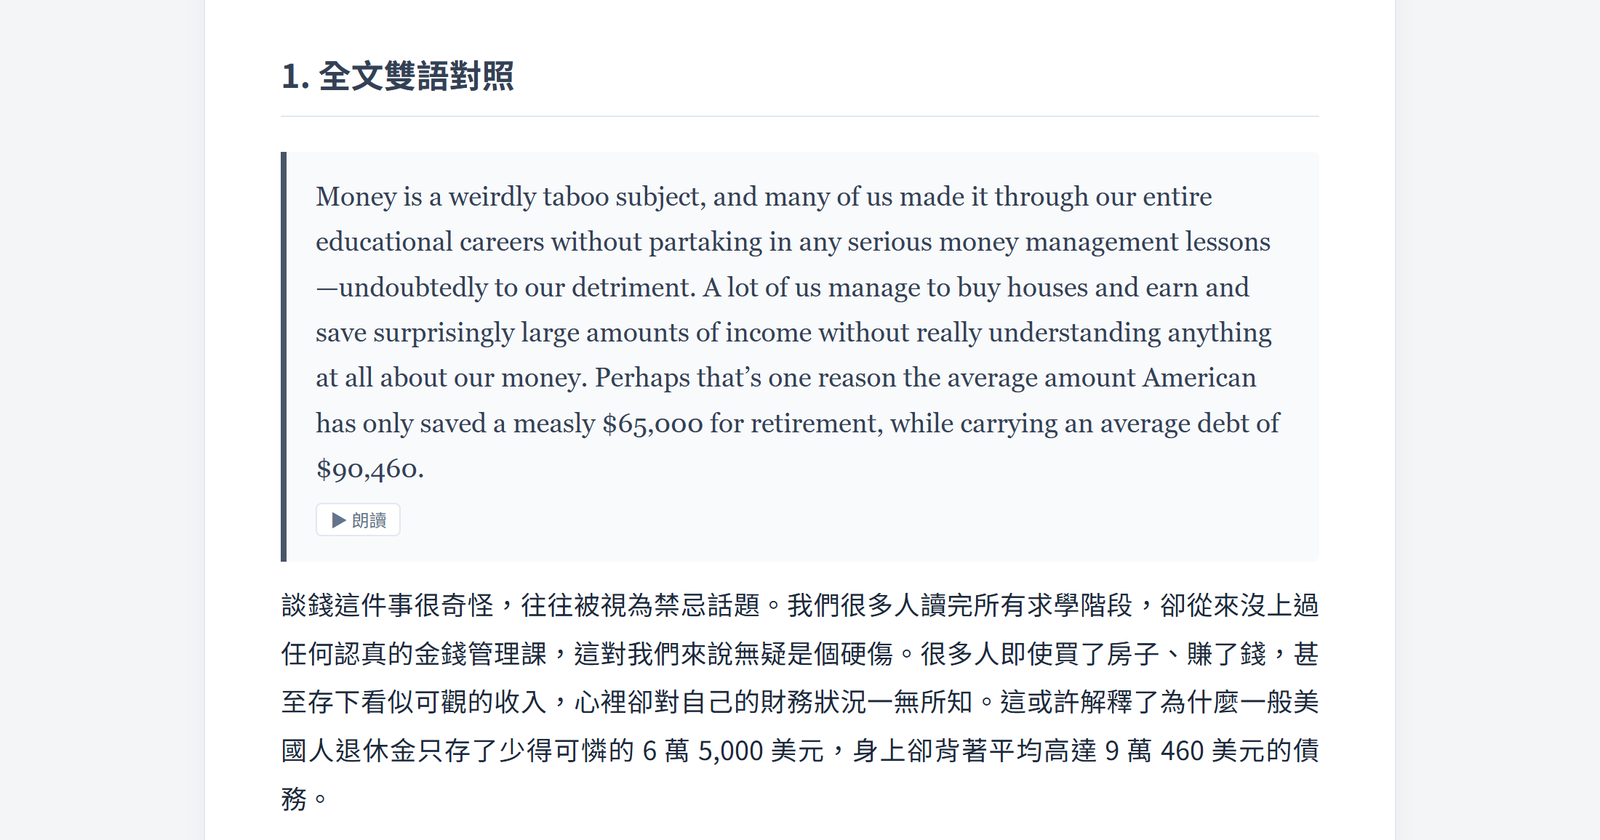
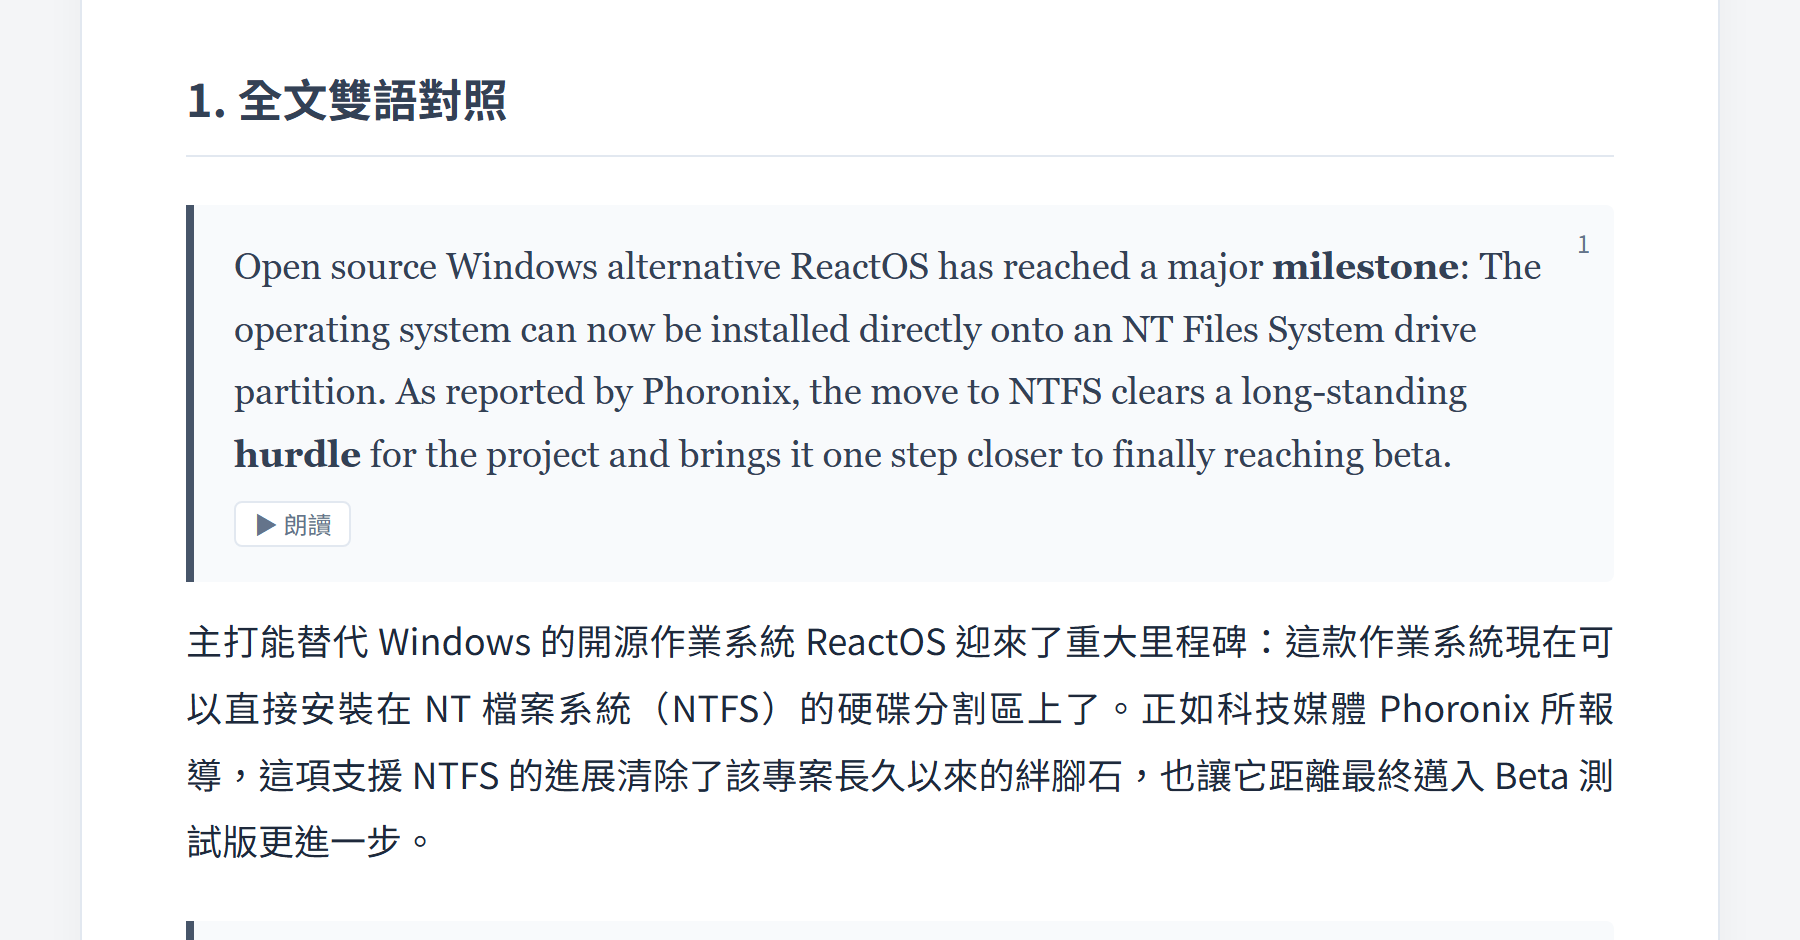
README：Shinkansen 致謝、截圖更新為 v2.12

Changed region(s): [[0.0938, 0.1857, 0.9062, 0.9595], [0.0938, 0.0619, 0.3438, 0.1548], [0.0938, 0.9905, 0.125, 1.0]]

diff --git a/README.md b/README.md
@@ -85,7 +85,7 @@
 - 不需要伺服器，不收集任何資料。文章只會送到 Google Gemini API。
 - 權限用途：右鍵選單（contextMenus）、讀取目前分頁的文章（activeTab、scripting）、儲存設定（storage）、另存講義（downloads）。
 - 正文擷取使用 [Mozilla Readability](https://github.com/mozilla/readability)（Apache License 2.0，授權條款見 `lib/Readability.LICENSE.md`）。
-- 〔是否寫：部分設計構想參考 Shinkansen〕
+- 部分設計構想參考 [Shinkansen](https://github.com/jimmysu0309/shinkansen)（Jimmy Su），例如用 Readability 擷取正文、翻譯規則放在系統指令。程式碼與提示文字皆為本專案自行撰寫。
 
 ---
 
